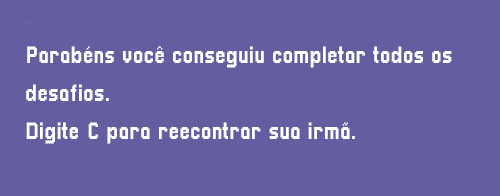
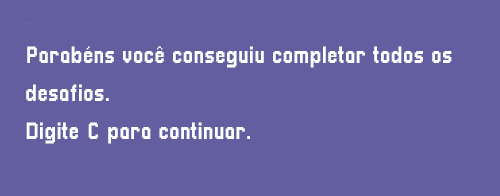
removendo erro de imagem nas telas de batalha 3 e adicionando texto para última tela do jogo

Changed region(s): [[0.21, 0.6122, 0.72, 0.7347]]

diff --git a/BattleDungeon.py b/BattleDungeon.py
@@ -1,3 +1,4 @@
+from pygame import KEYDOWN
 import classes
 from sys import exit
 from random import randint
@@ -11,8 +12,7 @@ class RPG:
         self.x, self.y = x, y
 
         pg.font.init()
-        fonte = pg.font.get_default_font()
-        self.fontePequena = pg.font.SysFont(fonte, 35)
+        self.fonte = pg.font.SysFont('Pixellari', 45)
 
         pg.mixer.music.set_volume(0.4)
         pg.mixer.music.play(-1)
@@ -27,6 +27,8 @@ class RPG:
         self.dado = 0
 
         self.paused = False
+
+        self.numero_da_batalha = 1
 # --------------------------------------------- Tela créditos ------------------------------------------------------------
     def tela_creditos(self):
         creditoLoop = True
@@ -35,7 +37,6 @@ class RPG:
             self.tela.fill((67, 54, 55))
 
             colisaoBtnVoltar = areaBtnVoltar.collidepoint(pg.mouse.get_pos())
-            self.tela.blit(btnVoltar, (areaBtnVoltar.x, areaBtnVoltar.y))
             self.tela.blit(txtCreditos, (areaTxtCreditos.x, areaTxtCreditos.y))
 
             for event in pg.event.get():
@@ -43,11 +44,15 @@ class RPG:
                     pg.quit()
                     exit()
 
-                elif event.type == pg.MOUSEBUTTONDOWN and colisaoBtnVoltar:
-                    creditoLoop = False
-
                 elif pg.key.get_pressed()[pg.K_ESCAPE]:
                     creditoLoop = False
+            
+            if colisaoBtnVoltar:
+                self.tela.blit(btnVoltarEscala, (areaBtnVoltar.x * 0.975, areaBtnVoltar.y * 0.975))
+                if pg.mouse.get_pressed()[0]:
+                    creditoLoop = False
+            else:
+                self.tela.blit(btnVoltar, (areaBtnVoltar.x, areaBtnVoltar.y))
 
             pg.display.update()
             pg.display.flip()
@@ -95,6 +100,11 @@ class RPG:
     def tela_batalha(self, personagem, inimigo, dano: int, vida: int):
         escolha = personagem
 
+        if inimigo == 'red orc' or inimigo == 'hunter orc' or inimigo == 'ghost' or inimigo == 'yellow ghost':
+            imagem = txt_ultima_vitoria
+        else:
+            imagem = txt_vitoria
+
         if inimigo == 'minotaur' or inimigo == 'evil cleric':
             pg.mixer.music.pause()
             som_batalha.stop()
@@ -137,7 +147,6 @@ class RPG:
         barra_vida = pontos_vida
 
         self.vida_inimigo = vida
-        self.imagem = txt_vitoria
 
         ataque = False
         esquiva = False
@@ -147,6 +156,10 @@ class RPG:
         qnt_tentativa_cura = 0
         qnt_acerto_cura = 0 
         limite_cura = False
+
+        qnt_tentativa_especial = 0
+        qnt_acerto_especial = 0
+        limite_especial = 0
 
         errou_ataque = False
         errou_esquiva = False
@@ -210,20 +223,29 @@ class RPG:
                                 self.vida_personagem -= dano
                         
                         if event.key == pg.K_s:
+                            qnt_tentativa_especial += 1
                             ataque = False
                             esquiva = False
                             especial = True
-                            self.dado = randint(1,6)
-                            if self.dado == 6:
-                                acertou_especial = True
-                                errou_especial = False
-                                self.dano = 8
-                                self.verificador(self.dano)
-                                personagem.atack_especial()
-                            else:
-                                errou_especial = True
-                                acertou_especial = False
-                                self.vida_personagem -= dano
+                            if qnt_tentativa_especial <= 3:
+                                self.dado = randint(1,6)
+                                if self.dado == 6:
+                                    qnt_acerto_especial += 1
+                                    if qnt_acerto_especial <= 1:
+                                        acertou_especial = True
+                                        errou_especial = False
+                                        self.dano = 8
+                                        self.verificador(self.dano)
+                                        personagem.atack_especial()
+                                    elif qnt_acerto_especial > 1:
+                                        limite_especial = True
+                                else:
+                                    errou_especial = True
+                                    acertou_especial = False
+                                    self.vida_personagem -= dano
+                            elif qnt_tentativa_especial > 3:
+                                limite_especial = True
+
                     if escolha == 'pietra':
                         if event.key == pg.K_a:
                             cura = False
@@ -301,6 +323,10 @@ class RPG:
             personagem.carregar()
             inimigo.carregar()
 
+            self.tela.blit(txt_batalha, (0,0))
+            txt_numero_batalha = self.fonte.render(str(self.numero_da_batalha), True, (255,255,255))
+            self.tela.blit(txt_numero_batalha, (450,75))
+
             if escolha == 'cassio':
                 self.tela.blit(txt_informacao_batalha_cassio, (270, 500))
                 if ataque:
@@ -318,6 +344,9 @@ class RPG:
                         self.tela.fill((0,0,0))
                         self.tela.blit(txt_acertou_esquiva, (0,0))
                 elif especial:
+                    if limite_especial:
+                        self.tela.fill((0,0,0))
+                        self.tela.blit(txt_limite_cura, (0,0))
                     if errou_especial:
                         self.tela.fill((0,0,0))
                         self.tela.blit(txt_errou_especial, (0,0))
@@ -368,6 +397,10 @@ class RPG:
             personagem.carregar()
             inimigo.carregar()
 
+            self.tela.blit(txt_batalha, (0,0))
+            txt_numero_batalha = self.fonte.render(str(self.numero_da_batalha), True, (255,255,255))
+            self.tela.blit(txt_numero_batalha, (450,75))
+
             if escolha == 'cassio':
                self.tela.blit(txt_informacao_batalha_cassio, (270, 500))
             elif escolha == 'pietra':
@@ -384,8 +417,9 @@ class RPG:
                     self.tela_escolha()
 
             if self.vida_inimigo == 0:
-                self.tela.blit(self.imagem, (150, 200))
+                self.tela.blit(imagem, (150, 200))
                 if pg.key.get_pressed()[pg.K_c]:
+                    self.numero_da_batalha += 1
                     self.vida_inimigo = 10
                     self.vida_personagem = 10
                     return 'ganhou'
@@ -407,7 +441,10 @@ class RPG:
                 if event.type == pg.QUIT:
                     pg.quit()
                     exit()
+                if event.type == KEYDOWN:
+                    self.loop_game()
 
+            self.tela.blit(txt_jogar_novamente, (0,0))
             self.tela.blit(imgBatalha, (areaImgBatalha.x, areaImgBatalha.y))
             self.tela.blit(imagem_cassio, (200, 220))
             self.tela.blit(imagem_pietra, (280, 300))
@@ -433,9 +470,10 @@ class RPG:
                 if event.type == pg.QUIT:
                     pg.quit()
                     exit()
-                if pg.key.get_pressed()[pg.K_r]:
+                if event.type == KEYDOWN:
                     self.loop_game()
 
+            self.tela.blit(txt_jogar_novamente, (0,0))
             self.tela.blit(imgBatalha, (areaImgBatalha.x, areaImgBatalha.y))
             self.tela.blit(imagem_cassio, (280, 300))
             self.tela.blit(imagem_pietra, (200, 220))
@@ -834,6 +872,7 @@ class RPG:
         self.clock = pg.time.Clock()
         self.telaX, self.telaY = self.x, self.y
         self.tela = pg.display.set_mode((self.telaX, self.telaY))
+        pg.display.set_icon(icon)
 
         menuLoop = True
         while menuLoop:
@@ -872,5 +911,5 @@ class RPG:
             pg.display.update()
             pg.display.flip()
 
-jogo = RPG("game", 800, 600)
+jogo = RPG("Battle Dungeon", 800, 600)
 jogo.loop_game()

diff --git a/loads.py b/loads.py
@@ -32,10 +32,14 @@ txt_acertou_esquiva = pg.image.load('IMAGENS/INFOS/TEXTOS SEM FUNDO/HABILIDADES/
 
 txt_errou_especial = pg.image.load('IMAGENS/INFOS/TEXTOS SEM FUNDO/HABILIDADES/errou_especial.png')
 txt_acertou_especial = pg.image.load('IMAGENS/INFOS/TEXTOS SEM FUNDO/HABILIDADES/acertou_especial.png')
+txt_limite_especial = pg.image.load('IMAGENS/INFOS/TEXTOS SEM FUNDO/HABILIDADES/limite_especial.png')
+txt_batalha = pg.image.load('IMAGENS/INFOS/TEXTOS SEM FUNDO/txt_batalha.png')
 
 txt_errou_cura = pg.image.load('IMAGENS/INFOS/TEXTOS SEM FUNDO/HABILIDADES/errou_cura.png')
 txt_acertou_cura = pg.image.load('IMAGENS/INFOS/TEXTOS SEM FUNDO/HABILIDADES/acertou_cura.png')
 txt_limite_cura = pg.image.load('IMAGENS/INFOS/TEXTOS SEM FUNDO/HABILIDADES/limite_cura.png')
+
+txt_jogar_novamente = pg.image.load('IMAGENS/INFOS/TEXTOS SEM FUNDO/jogar_novamente.png')
 
 txtPause = pg.image.load('IMAGENS/INFOS/TEXTOS SEM FUNDO/pause.png')
 areaTxtPause = txtPause.get_rect(x=250, y=10)
@@ -52,6 +56,7 @@ respostaPietra = pg.image.load('IMAGENS/INFOS/respostaPietra.png')
 imagem_pontos_fala = pg.image.load('IMAGENS/INFOS/TEXTOS SEM FUNDO/pontos_Fala.png')
 imagem_cassio = pg.image.load('IMAGENS/PERSONAGENS/CÁSSIO/SPRITE/PARADO/1.png')
 imagem_pietra = pg.image.load('IMAGENS/PERSONAGENS/PIETRA/SPRITE/PARADO/1.png')
+icon = pg.image.load('IMAGENS/INFOS/icon_game.png')
 escolhaPortas = pg.image.load('IMAGENS/INFOS/TEXTOS SEM FUNDO/escolhaPortas.png')
 
 # pontos de vida
@@ -95,6 +100,7 @@ btnSairEscala = pg.transform.scale(btnSair, (areaBtnSair.w * 1.05, areaBtnSair.h
 
 btnVoltar = pg.image.load('IMAGENS/BOTÕES/voltar.png')
 areaBtnVoltar = btnVoltar.get_rect(x=10, y=10)
+btnVoltarEscala = pg.transform.scale(btnVoltar, (areaBtnVoltar.w * 1.05, areaBtnVoltar.h * 1.05))
 
 btnContinuar = pg.image.load('IMAGENS/BOTÕES/btnContinuar.png')
 areaBtnContinuar = btnContinuar.get_rect(x=250, y=200)
